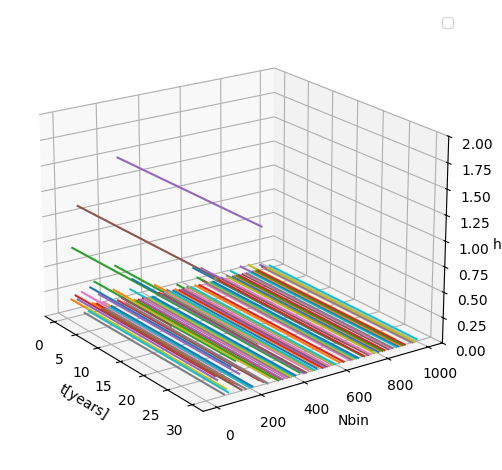
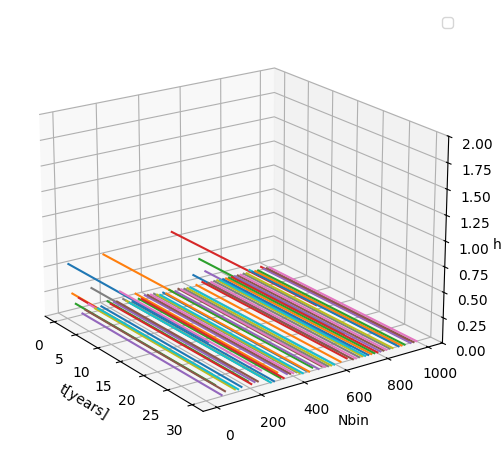
Fixed for step not divisible by 10

diff --git a/noise_csv.py b/noise_csv.py
@@ -11,7 +11,7 @@ Nchunks = 15 # Number of chunks
 ###
 def plotting(show=False, outputfile='Figure.png', total_time=1e4, dt=5e-3, Nbinmin = 10, Nbinmax = 1000, ylimlow=0, ylimhigh=0.5e38, step = 1):
     time = [i * dt for i in range(int(total_time/dt))]
-    Nbin = [step * i for i in range(Nbinmax)]
+    Nbin = [10 + step * i for i in range(Nbinmax)]
 
     fig = plt.figure()
     ax = fig.add_subplot(projection='3d')
